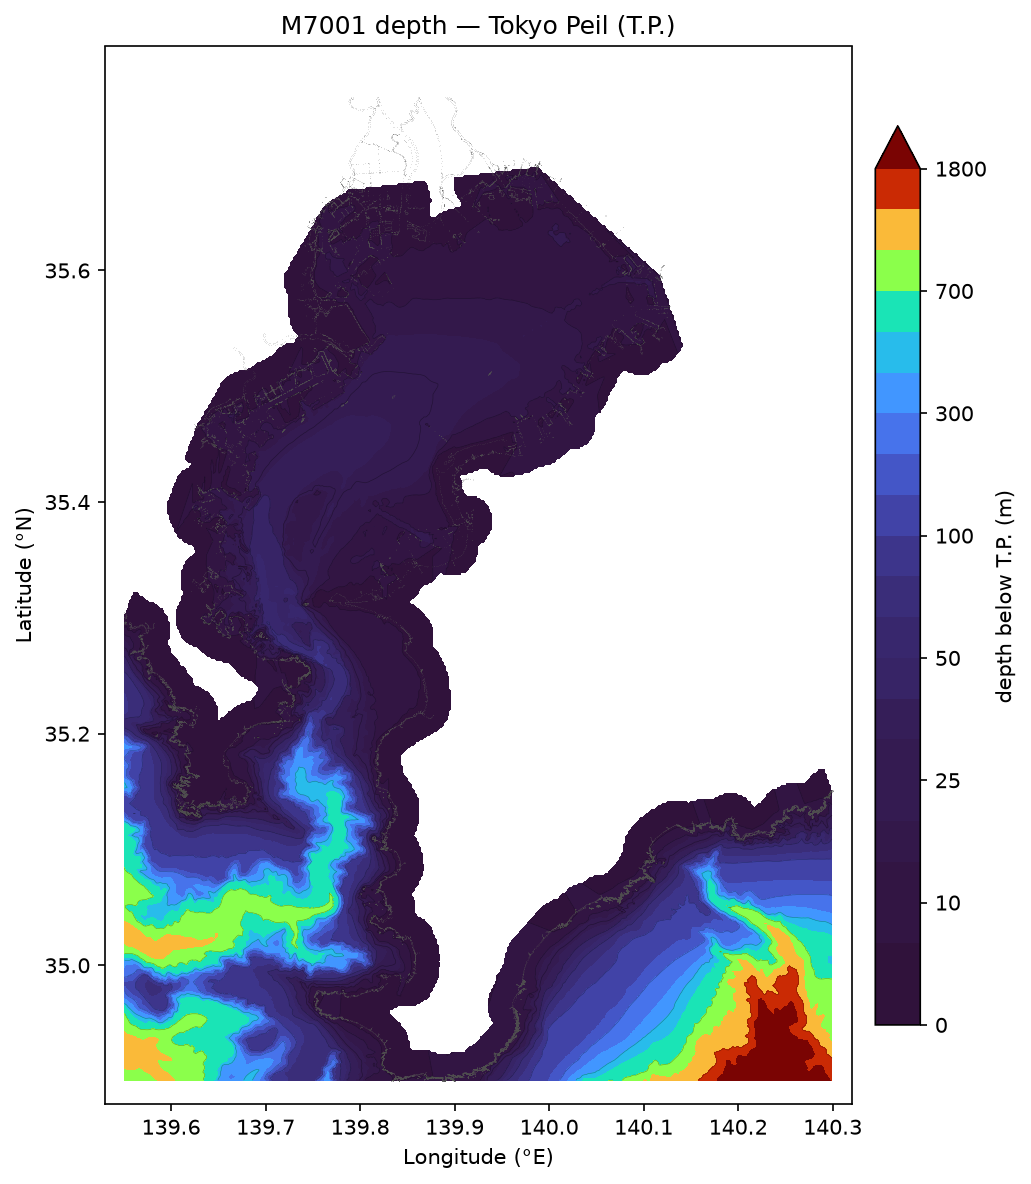
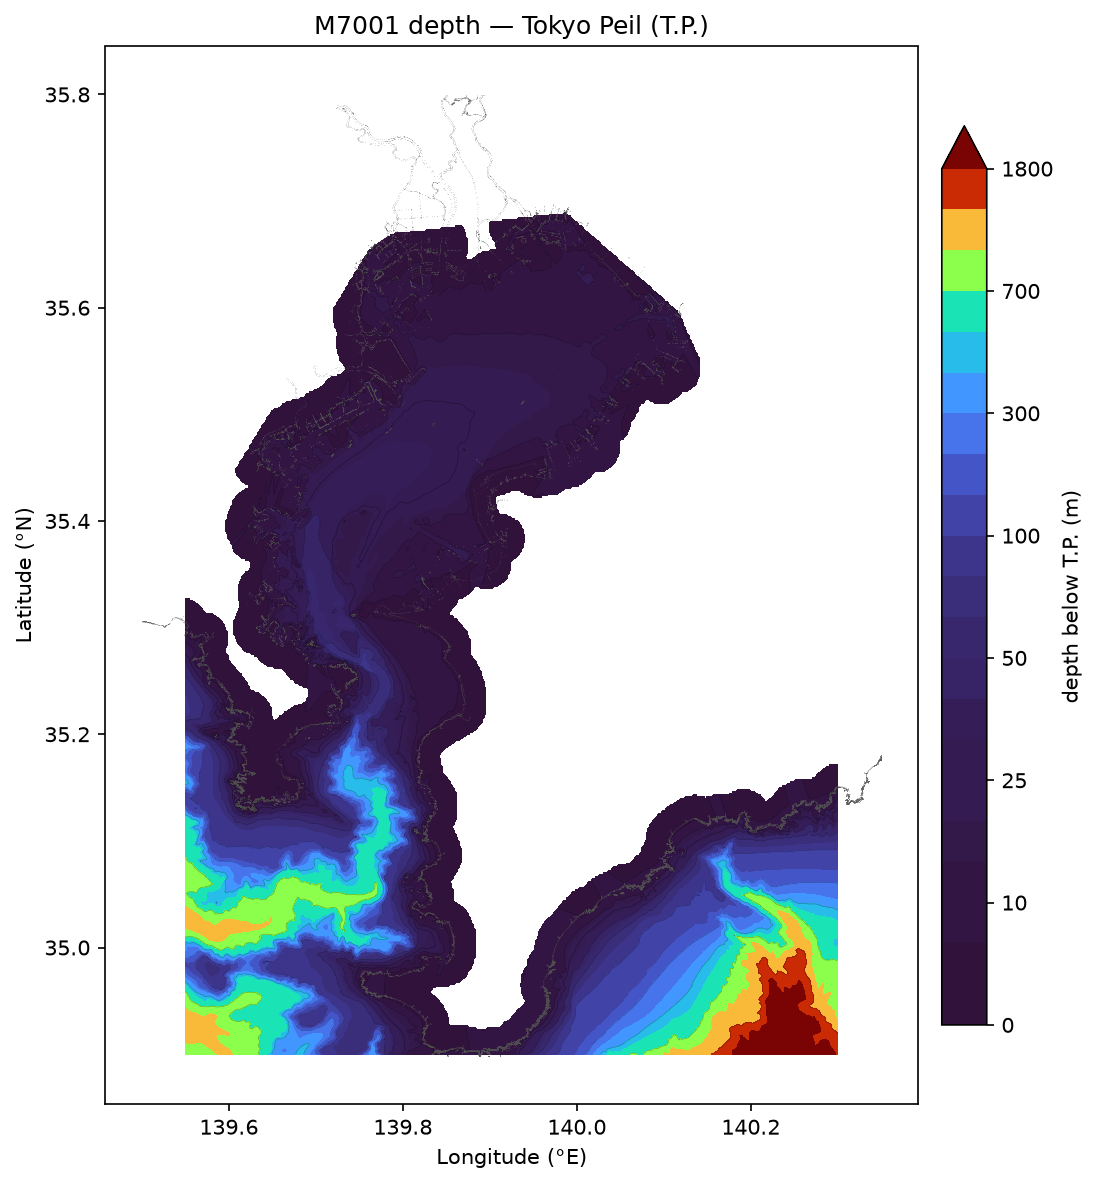
Drop redundant Tokyo-Bay products; plot from the whole-sheet dataset
`M7001_TP_tokyobay.*` was exactly the bounding-box subset of `M7001_TP.*` (same
573,015 points, values identical to ~1e-13 m), and the Tokyo-Bay datum-model grid
was a sub-window of the whole-extent grid — both redundant. Keep only the
whole-sheet `M7001_TP.{csv,parquet}` and `M7001_chart_datum_model_kanto_south.nc`
as the single source of truth; a sub-region is just a bbox filter.

- genkai_m7001_to_tp.sh: write only the whole-sheet dataset + whole-extent grid.
- plot_m7001_tp.py: default to M7001_TP.parquet and restrict to the Tokyo Bay
  window (bbox filter) before gridding, so it does not triangulate all ~3.75 M
  points; figures are unchanged.
- Update README / docs/m7001.md accordingly; regenerate the figures.

Claude-Session: https://claude.ai/code/session_01Kn7V6BVsG7Mou1XRx9xaoV

diff --git a/topobathy/cli/plot_m7001_tp.py b/topobathy/cli/plot_m7001_tp.py
@@ -42,7 +42,7 @@ def _build_parser() -> argparse.ArgumentParser:
         "--tp-product",
         type=Path,
         default=None,
-        help="T.P. product parquet/csv (default: $DATA_DIR/.../TP/M7001_TP_tokyobay.parquet)",
+        help="T.P. product parquet/csv (default: $DATA_DIR/.../TP/M7001_TP.parquet)",
     )
     p.add_argument(
         "--out-dir",
@@ -59,7 +59,7 @@ def _build_parser() -> argparse.ArgumentParser:
         type=float,
         default=None,
         metavar=("LON_MIN", "LON_MAX", "LAT_MIN", "LAT_MAX"),
-        help="plot window (default: extent of the N points, padded)",
+        help="plot window (default: the Tokyo Bay window 139.55 140.30 34.90 35.75)",
     )
     p.add_argument("--nlon", type=int, default=420, help="grid columns (default: 420)")
     p.add_argument("--nlat", type=int, default=480, help="grid rows (default: 480)")
@@ -120,27 +120,31 @@ def main(argv: list[str] | None = None) -> int:
 
     product = args.tp_product
     if product is None:
-        product = config.m7001_tp_dir() / "M7001_TP_tokyobay.parquet"
+        product = config.m7001_tp_dir() / "M7001_TP.parquet"
     print(f"product: {product}", flush=True)
     df = read_points(product)
+
+    # Plot window (default: the Tokyo Bay window). Restrict the point set to the
+    # window (+ a small margin) BEFORE gridding, so the whole-sheet product does
+    # not trigger a Delaunay triangulation of all ~3.75 M points.
+    bbox = tuple(args.bbox) if args.bbox is not None else (139.55, 140.30, 34.90, 35.75)
+    pad = 0.05
+    inwin = df["lon"].between(bbox[0] - pad, bbox[1] + pad) & df["lat"].between(
+        bbox[2] - pad, bbox[3] + pad
+    )
+    df = df.loc[inwin]
 
     is_n = df["mark"].to_numpy() == "N"
     n = df.loc[is_n]
     coast = df.loc[df["mark"].isin(["L", "M"])]
     if n.empty:
-        print("ERROR: no N (depth) marks in the product.", flush=True)
+        print("ERROR: no N (depth) marks in the window.", flush=True)
         return 1
 
     lon = n["lon"].to_numpy()
     lat = n["lat"].to_numpy()
     depth_cd = n["depth_cd"].to_numpy()  # metres below chart datum
     z0 = n["z0"].to_numpy()  # T.P. - chart datum (m)
-
-    if args.bbox is not None:
-        bbox = tuple(args.bbox)
-    else:
-        pad = 0.02
-        bbox = (lon.min() - pad, lon.max() + pad, lat.min() - pad, lat.max() + pad)
     print(
         f"N points: {len(n):,}  bbox: {tuple(round(b, 3) for b in bbox)}  "
         f"depth_cd [{depth_cd.min():.1f},{depth_cd.max():.1f}] m",

diff --git a/README.md b/README.md
@@ -91,28 +91,28 @@ official JCG 一覧表 + JMA anchors; leave-one-out CV **RMS 6.3 cm**). Written 
 | product | domain | contents |
 |---|---|---|
 | `M7001_TP.{csv,parquet}` | whole Southern Kanto sheet (~3.95 M pts) | point dataset (`z_tp` + `z_ell`) |
-| `M7001_TP_tokyobay.{csv,parquet}` | Tokyo Bay (`139.55 140.30 34.90 35.75`) | point dataset |
-| `M7001_chart_datum_model_*.nc` | 1′×1.5′ grids | 最低水面モデル (T.P. + ellipsoidal) |
+| `M7001_chart_datum_model_kanto_south.nc` | whole extent, 1′×1.5′ grid | 最低水面モデル (T.P. + ellipsoidal) |
 
-`z_ell` (WGS84 ellipsoidal height) = `z_tp + N` uses the GSI geoid「日本のジオイド
-2011」([`scripts/get_gsigeo.py`](scripts/get_gsigeo.py), direct download; the T.P.
-`z_tp` itself needs no geoid). Defined over Tokyo Bay/coast; NaN over the open ocean.
+`M7001_TP` is the single source of truth; a sub-region (e.g. Tokyo Bay) is just its
+bounding-box filter, with identical values. `z_ell` (WGS84 ellipsoidal height) =
+`z_tp + N` uses the GSI geoid「日本のジオイド2011」([`scripts/get_gsigeo.py`](scripts/get_gsigeo.py),
+direct download; `z_tp` itself needs no geoid); defined over Tokyo Bay/coast, NaN
+over the open ocean.
 
 ### Run
 
 Heavy for the full ~3.95 M-point sheet — run as a **GENKAI batch job**, not on the
-login node. The one script does both point datasets **and** the 最低水面モデル grids:
+login node. The one script writes the point dataset **and** the 最低水面モデル grid:
 
 ```bash
 pjsub scripts/genkai_m7001_to_tp.sh          # rigorous (TIN) pipeline -> TP/
 ```
 
-Or invoke the CLIs directly:
+Or invoke the CLIs directly (a bounding box just subsets the same result):
 
 ```bash
-topobathy-m7001-to-tp --method linear --marks N \
-    --bbox 139.55 140.30 34.90 35.75 --out-name M7001_TP_tokyobay
-topobathy-build-datum-model --bbox 139.55 140.30 34.90 35.75 \
+topobathy-m7001-to-tp --method linear --geoid          # whole sheet -> M7001_TP
+topobathy-build-datum-model --bbox 138.2 141.6 33.1 36.0 \
     --out /path/M7001_chart_datum_model.nc     # continuous 最低水面モデル (NetCDF)
 ```
 

diff --git a/docs/m7001.md b/docs/m7001.md
@@ -33,9 +33,12 @@ official 一覧表 ports + exact JMA 潮位表基準面 anchors; see
 | product | domain | contents |
 |---|---|---|
 | `M7001_TP.{csv,parquet}` | whole "Southern Kanto" sheet, 3,950,314 pts | point dataset (`mark,lon,lat,z_tp,z_ell,depth_cd,z0,…`) |
-| `M7001_TP_tokyobay.{csv,parquet}` | Tokyo Bay window (`139.55–140.30, 34.90–35.75`) | point dataset |
 | `M7001_chart_datum_model_kanto_south.nc` | whole extent, 1′×1.5′ grid | 最低水面モデル (`tp_minus_cd`, `chart_datum_elevation`, `chart_datum_ellipsoidal`) |
-| `M7001_chart_datum_model_tokyobay.nc` | Tokyo Bay, 1′×1.5′ grid | continuous 最低水面モデル |
+
+`M7001_TP.{csv,parquet}` is the single source of truth for the point data — a
+sub-region (e.g. Tokyo Bay) is just its bounding-box filter, with **identical**
+values (verified to ~1e-13 m). Likewise the datum-model grid is defined over the
+whole extent; a sub-window is a slice of the same 1′×1.5′ grid.
 
 `z_tp` is the **T.P. elevation** (m, +up); `z_ell` = `z_tp + N` is the **WGS84
 ellipsoidal height** via the GSI geoid (「日本のジオイド2011」;
@@ -50,14 +53,14 @@ accuracy note; the T.P. product (6.3 cm) is geoid-independent.
 > Pacific — the whole coastal M7001 extent. Only the far-offshore SE corner (deep
 > open Pacific to ~7.8 km) lies beyond the TIN hull, where Z0 falls back to
 > IDW-nearest and is immaterial (a ~1 m offset on kilometre depths). The maps below
-> use the Tokyo Bay product.
+> are drawn over the Tokyo Bay window.
 
 ## Contour maps
 
-Depth of the M7001 N-mark soundings, gridded (`scipy.griddata`, linear;
-`griddata` gaps and cells > 2.5 km from any sounding are blanked) over the Tokyo
-Bay window. Grey dots are the M7001 coastline (`L`, HHW) and low-tide (`M`)
-waterline marks, drawn for geographic context.
+Depth of the M7001 N-mark soundings (from `M7001_TP`, restricted to the Tokyo Bay
+window), gridded (`scipy.griddata`, linear; `griddata` gaps and cells > 2.5 km from
+any sounding are blanked). Grey dots are the M7001 coastline (`L`, HHW) and low-tide
+(`M`) waterline marks, drawn for geographic context.
 
 ### 1. Original depth — chart datum (基本水準面)
 